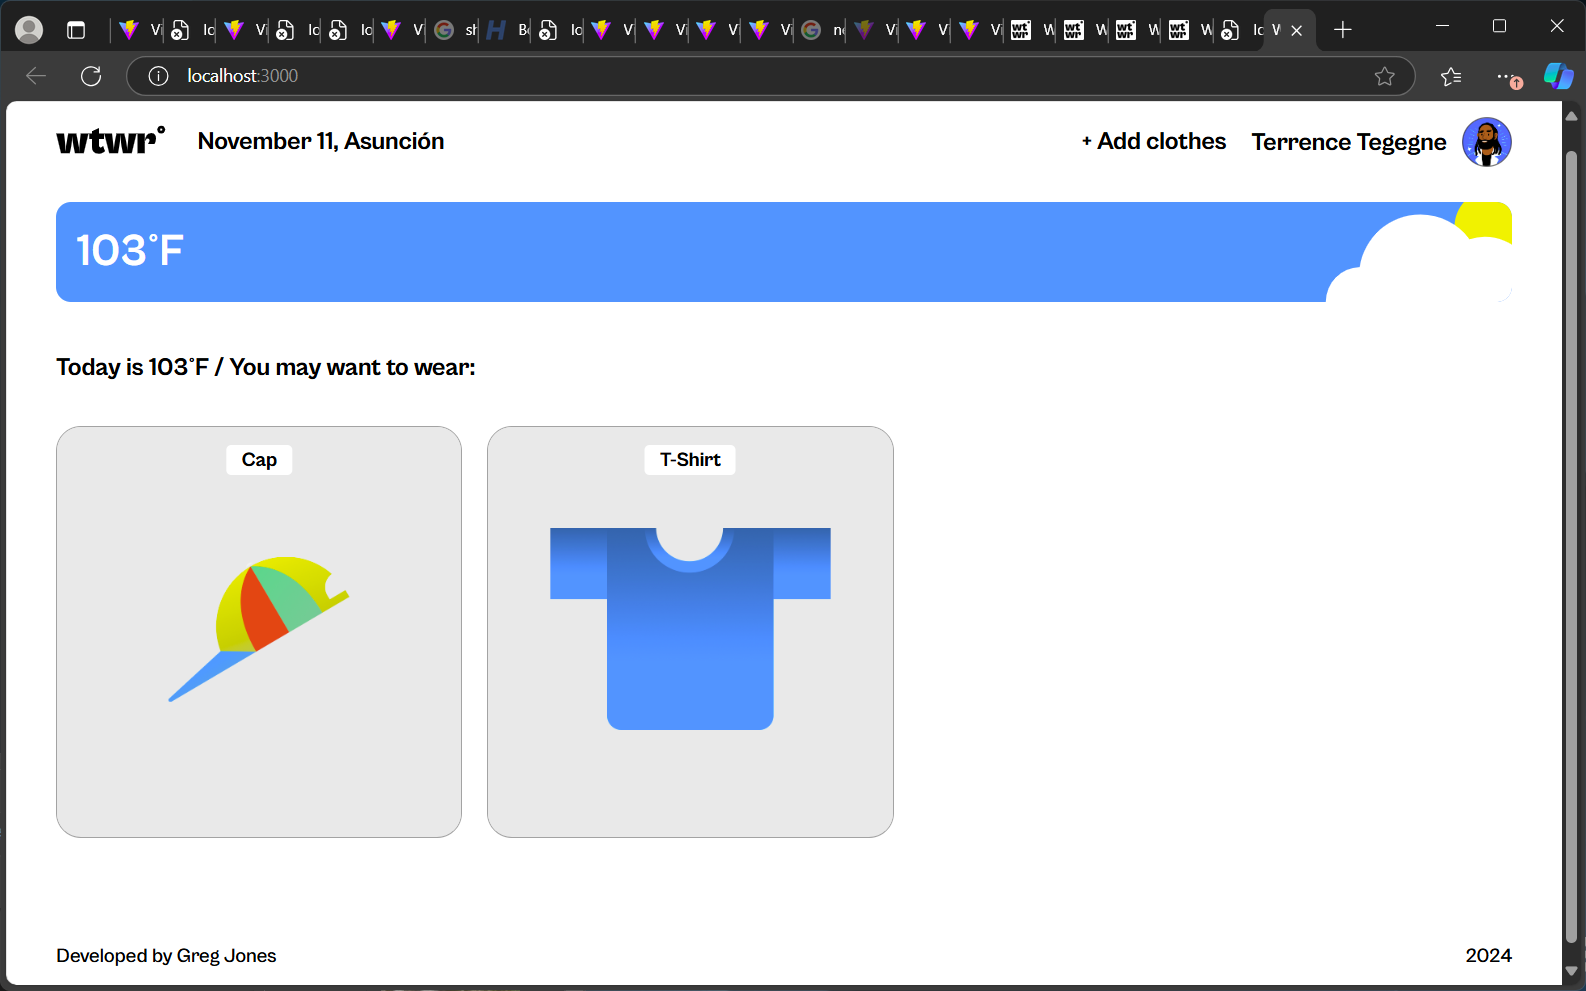
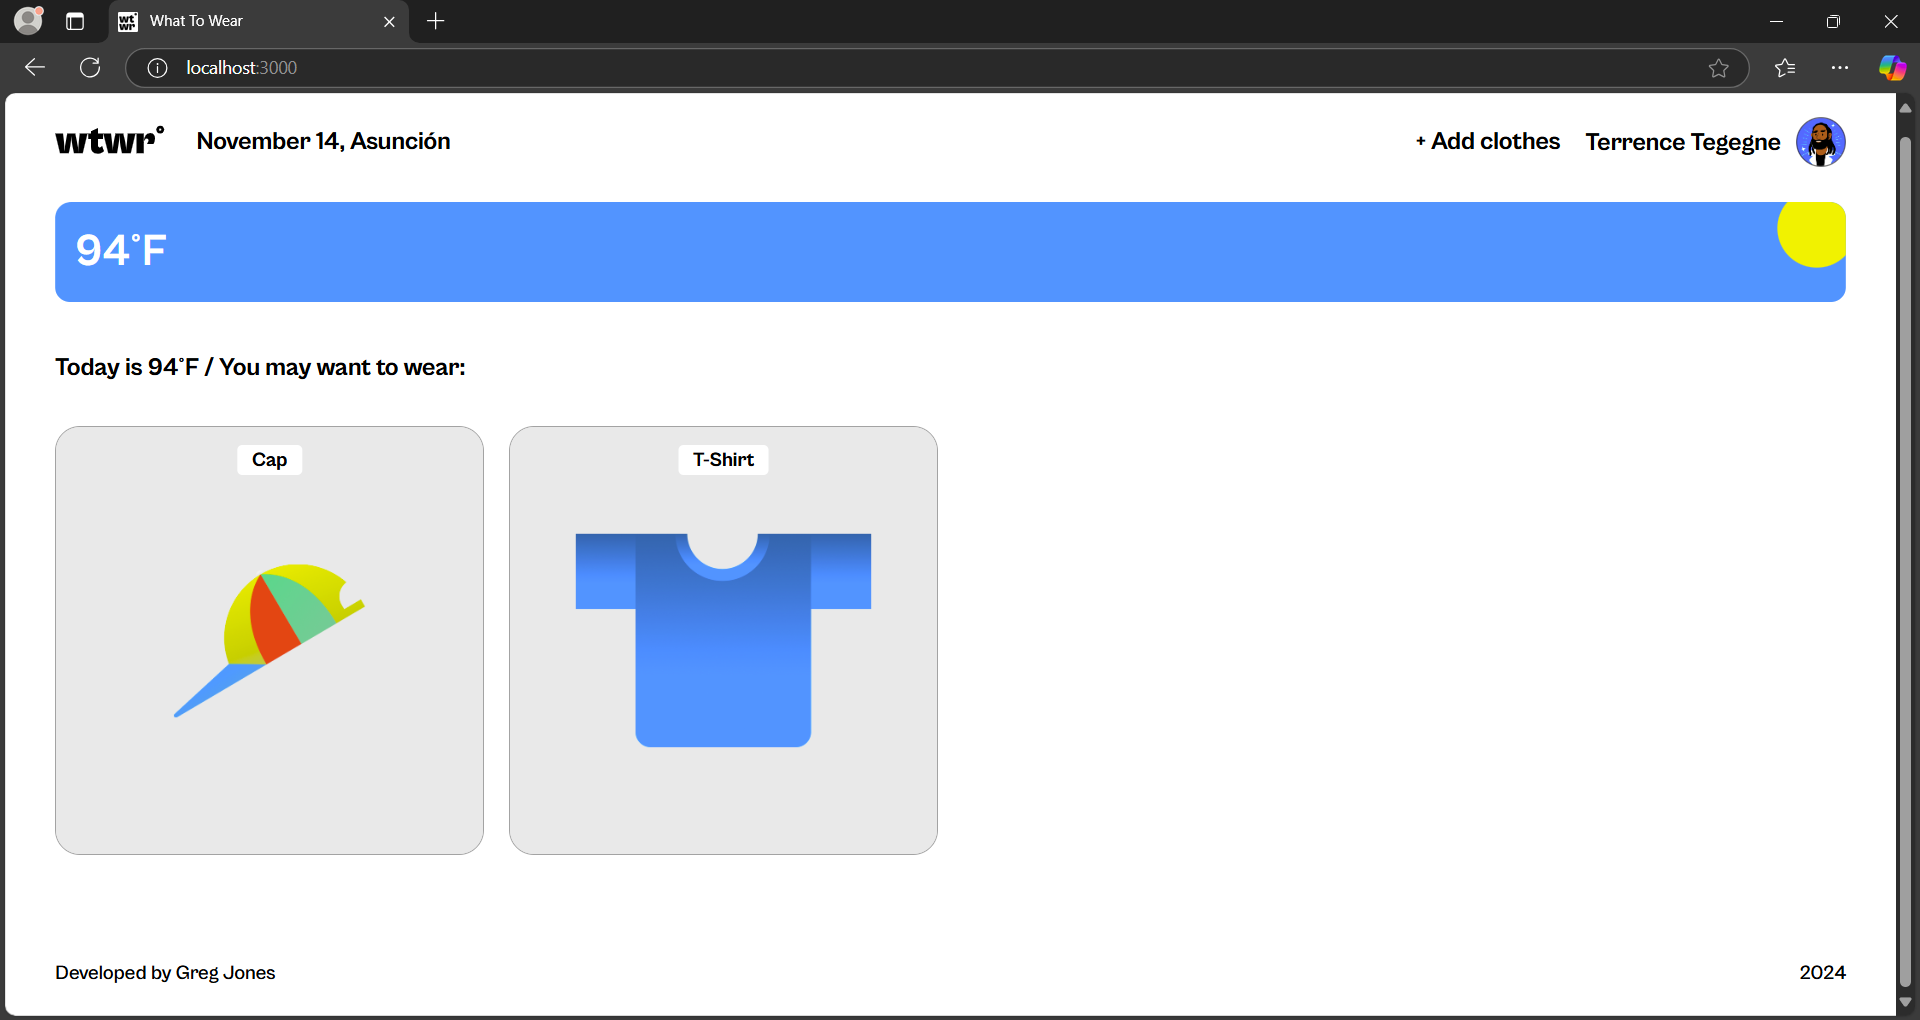
screenshots added to README.md file

diff --git a/src/utils/constants.js b/src/utils/constants.js
@@ -84,26 +84,23 @@ export const defaultClothingItems = [
 ];
 
 export const coordinates = {
-  // // Location Info As Of 3pm, 11/11/2024 (testing different conditions)
-  // // Washington, DC, USA (where I live; daytime, cloudy, warm)
+  // Location Info As Of 12pm, 11/14/2024 (testing different conditions)
+
+  // Washington, DC, USA (where I live; daytime, cloudy, cold)
   latitude: 38.89511,
   longitude: -77.03637,
 
-  // // //Shanghai, China (nighttime, clear, cold)
-  // latitude: 31.224361,
-  // longitude: 121.46917,
-
-  // //Asuncion, Paraguay (daytime, cloudy, hot)
+  // Asuncion, Paraguay (daytime, clear, hot)
   // latitude: -25.28646,
   // longitude: -57.647,
 
-  // // //Matane, Quebec, Canada (daytime, rain, cold)
-  // latitude: 48.849998,
-  // longitude: -67.533333,
+  // Iriona, Honduras (daytime, rainy, warm)
+  // latitude: 15.933,
+  // longitude: -85.183,
 
-  // //Mount Rainier National Park (Pierce County), Washington, USA (daytime, snowy, cold)
-  // latitude: 46.879967,
-  // longitude: -121.726906,
+  // Bethel, Alaska, USA (nighttime, snowy, cold)
+  // latitude: 60.792222,
+  // longitude: -161.755833,
 };
 
 export const APIkey = "d8633e85ba6b4c163ec058a7b0364964";

diff --git a/src/components/Header/Header.jsx b/src/components/Header/Header.jsx
@@ -23,10 +23,7 @@ function Header({ onAddClothes, weatherData, isMenuOpen, onMenuOpen }) {
             isMenuOpen ? "header__menu-button_opened" : ""
           }`}
           onClick={onMenuOpen}
-        >
-          hamburger
-          {/* hamburger icon isn't showing up without text being added here */}
-        </button>
+        ></button>
         <div
           className={`header__user ${
             !isMenuOpen ? "header__user_type_menu-closed" : ""

diff --git a/src/components/ModalWithForm/ModalWithForm.css b/src/components/ModalWithForm/ModalWithForm.css
@@ -97,17 +97,17 @@
 }
 
 .modal-form__radio-button {
+  appearance: none;
   width: 16px;
+  aspect-ratio: 1;
   border-radius: 50%;
   border: 8px solid #fff;
   background-color: #000000;
-  color: #000000;
+  box-shadow: 0 0 0 1px #000000;
 }
 
 .modal-form__radio-button:checked {
   border-width: 2px;
-  background-color: #000000;
-  border-color: #000000;
 }
 
 .modal-form__button {

diff --git a/src/components/Header/Header.css b/src/components/Header/Header.css
@@ -53,11 +53,12 @@
 }
 
 .header__menu-button {
-  /* position: absolute; */
+  position: absolute;
   top: 0;
   right: 0;
   display: none;
   width: 28px;
+  aspect-ratio: 1;
   padding: 0;
   margin: 8px;
   border: none;

diff --git a/src/components/ItemCard/ItemCard.css b/src/components/ItemCard/ItemCard.css
@@ -5,6 +5,7 @@
   border-radius: 20px;
   width: 365px;
   max-width: 100%;
+  aspect-ratio: 1;
   overflow: hidden;
   cursor: pointer;
 }

diff --git a/README.md b/README.md
@@ -47,6 +47,40 @@ This stage involves:
 
 **Images**
 
+Here are eight sets of screenshots of the project (as of Stage 1) at 12pm, 11/14/2024:
+
+Asuncion, Paraguay (daytime, clear, hot)
+
+<div display="flex"><img align="center" alt="Asuncion, Paraguay" src="./src/assets/screenshots/Asuncion, Paraguay.png" /></div>
+
+Bethel, Alaska, USA (nighttime, snowy, cold)
+
+<div display="flex"><img align="center" alt="Bethel, Alaska, USA" src="./src/assets/screenshots/Bethel, Alaska, USA.png" /></div>
+
+Iriona, Honduras (daytime, rainy, warm)
+
+<div display="flex"><img align="center" alt="Iriona, Honduras" src="./src/assets/screenshots/Iriona, Honduras.png" /></div>
+
+Washington, DC, USA (daytime, cloudy, cold)
+
+<div display="flex"><img align="center" alt="Washington, DC, USA" src="./src/assets/screenshots/Washington, DC, USA.png" /></div>
+
+Card Pop Up Window
+
+<div display="flex"><img align="center" alt="Card Pop Up Window" src="./src/assets/screenshots/Card Pop Up Window.png" /></div>
+
+Add Clothes Pop Up Window
+
+<div display="flex"><img align="center" alt="Add Clothes Pop Up Window" src="./src/assets/screenshots/Add Clothes Pop Up Window.png" /></div>
+
+Menu Closed (Mobile Version)
+
+<div display="flex"><img align="center" alt="Menu Closed (Mobile Version)" src="./src/assets/screenshots/Menu Closed (Mobile Version).png" /></div>
+
+Menu Open (Mobile Version)
+
+<div display="flex"><img align="center" alt="Menu Open (Mobile Version)" src="./src/assets/screenshots/Menu Open (Mobile Version).png" /></div>
+
 **Tech Used**
 
 - HTML
